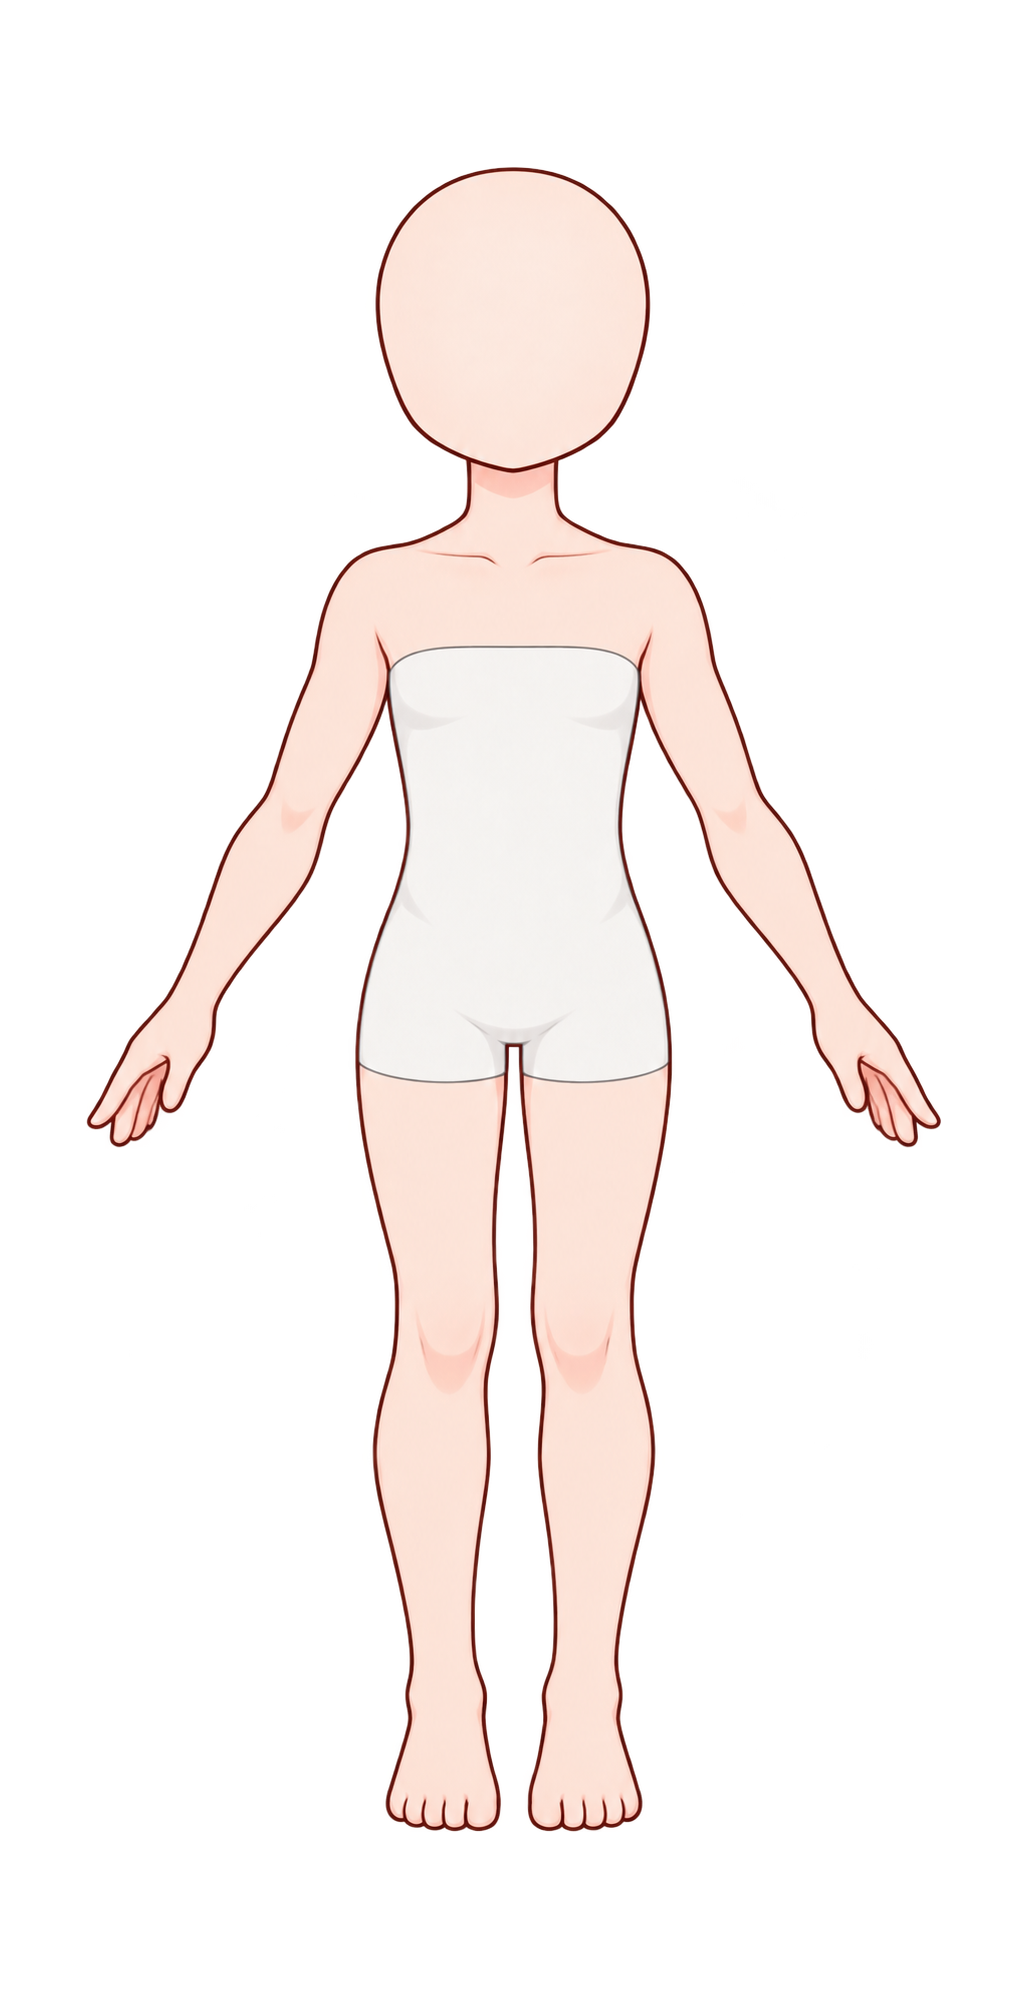
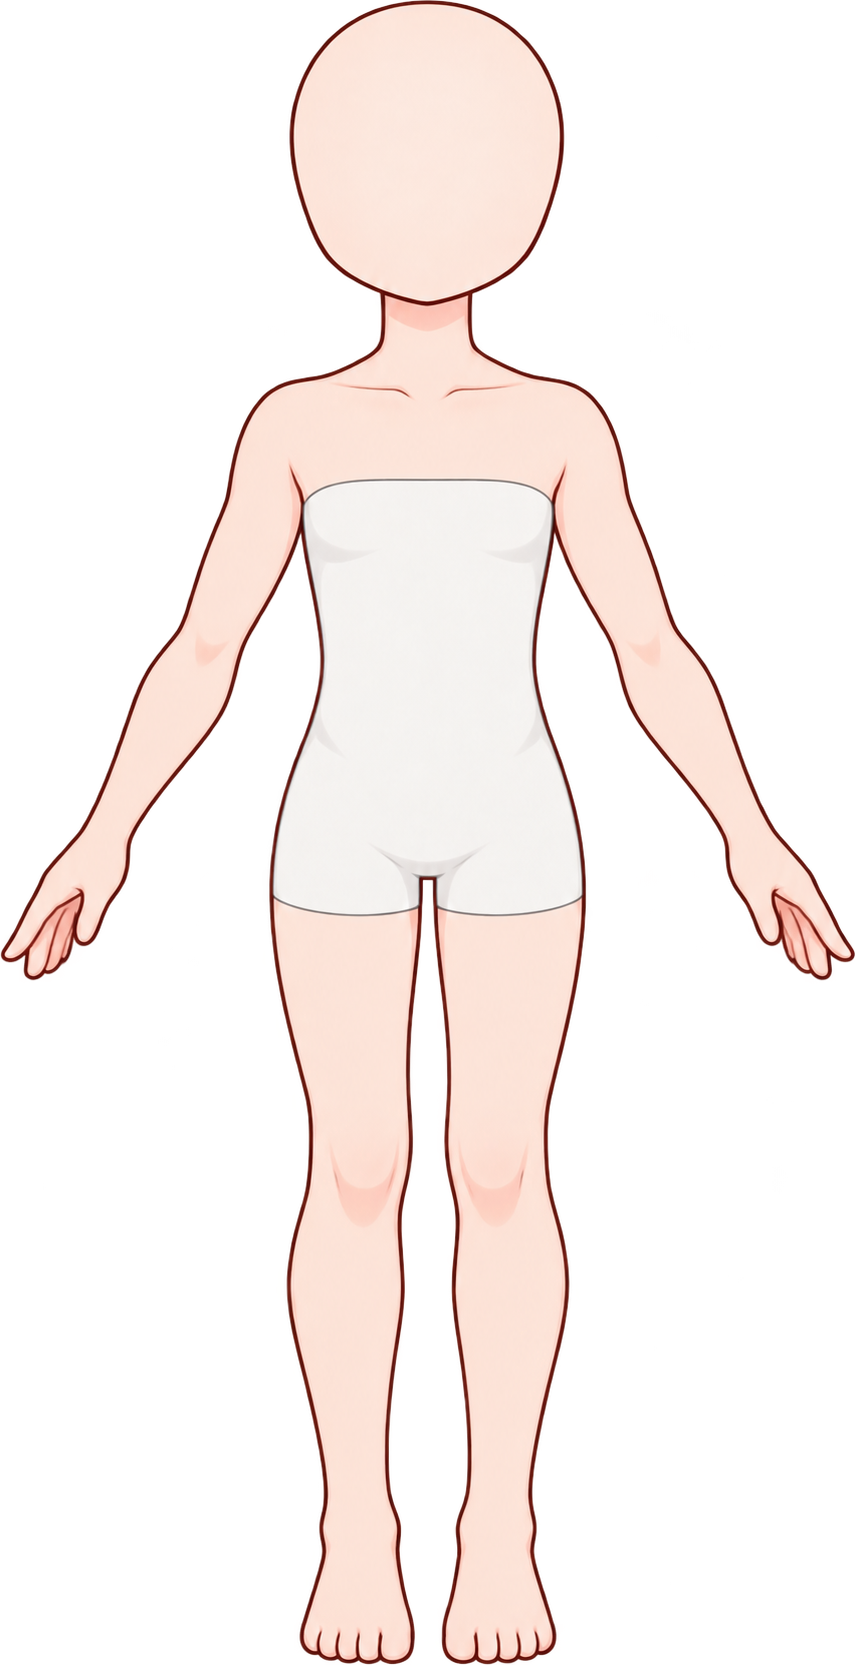
Tweaks on girl template

Changed region(s): [[0.0, 0.0, 1.0, 1.0]]

diff --git a/src/components/Character/Character.stories.tsx b/src/components/Character/Character.stories.tsx
@@ -206,16 +206,16 @@ export const Default: Story = {};
 
 export const Boy: Story = {
   args: {
-    size: 100,
-    top: 100,
+    size: 83.5,
+    top: 91.6458229115,
     left: 50,
     characterChoice: {
       sex: "M",
       layers: [
-        { file: "boy-costume-1.png", x: 50, y: 52, size: 53, zIndex: 2 },
-        { file: "boy-face-1.png", x: 50, y: 18, size: 7, zIndex: 1 },
-        { file: "boy-feet-1.png", x: 50, y: 82, size: 24, zIndex: 1 },
-        { file: "boy-hair-1.png", x: 50, y: 12, size: 19, zIndex: 1 },
+        { file: "boy-costume-1.png", x: 50, y: 52.5, size: 63.75, zIndex: 2 },
+        { file: "boy-face-1.png", x: 50, y: 11.75, size: 8.5, zIndex: 1 },
+        { file: "boy-feet-1.png", x: 50, y: 88.5, size: 29, zIndex: 1 },
+        { file: "boy-hair-1.png", x: 50, y: 4.5, size: 22, zIndex: 1 },
       ],
     },
   },
@@ -223,16 +223,16 @@ export const Boy: Story = {
 
 export const Girl: Story = {
   args: {
-    size: 100,
-    top: 100,
+    size: 83.5,
+    top: 91.6452442159,
     left: 50,
     characterChoice: {
       sex: "F",
       layers: [
-        { file: "girl-dress-1.png", x: 50, y: 52, size: 49, zIndex: 0 },
-        { file: "girl-face-1.png", x: 50, y: 18, size: 7, zIndex: 1 },
-        { file: "girl-hair-1.png", x: 50, y: 15, size: 19, zIndex: 1 },
-        { file: "girl-shoes-1.png", x: 50, y: 89, size: 9, zIndex: 1 },
+        { file: "girl-dress-1.png", x: 50, y: 52.5, size: 59, zIndex: 0 },
+        { file: "girl-face-1.png", x: 50, y: 11.75, size: 8.5, zIndex: 1 },
+        { file: "girl-hair-1.png", x: 50, y: 8, size: 23, zIndex: 1 },
+        { file: "girl-shoes-1.png", x: 50, y: 97, size: 12.5, zIndex: 1 },
       ],
     },
   },

diff --git a/AGENTS.md b/AGENTS.md
@@ -109,9 +109,8 @@ context and decisions, not temporary progress notes.
 - Prevent every rendered image from being dragged or selected.
 - Crop PNGs in `assets/character-parts/` to artwork bounds, ignoring pixels
   with opacity at or below 5% when measuring bounds. Preserve pixels inside
-  the crop. For `template-boy.png` and `template-girl.png`, add transparent
-  padding on each side equal to 10% of the cropped width or height, rounded
-  to the nearest whole pixel.
+  the crop. Templates are also tightly cropped, with no added padding:
+  `template-boy.png` is 855x1665 and `template-girl.png` is 887x1740.
 - Keep `npm run lint` and `npm run build` passing.
 
 ## Architecture decisions
@@ -174,14 +173,13 @@ context and decisions, not temporary progress notes.
   `zIndex`. Editor changes update Storybook args.
   Character stories place the 16:9 preview on the left and an independently
   scrollable editor on the right, keeping the preview visible while editing.
-  The `Girl` story starts with sex `F`, size/top `100`, left `50`, and the
-  configured girl dress, face, hair, and shoes layers, using the same live editor.
-  Its layer `(x, y, size)` values are dress `(50, 52, 49)`, face `(50, 18, 7)`,
-  hair `(50, 15, 19)`, and shoes `(50, 89, 9)`.
-  The `Boy` story uses the same editor with sex `M`, size/top `100`, left `50`.
-  Its layer `(x, y, size, zIndex)` values are `boy-costume-1.png`
-  `(50, 52, 53, 2)`, `boy-face-1.png` `(50, 18, 7, 1)`, `boy-feet-1.png`
-  `(50, 82, 24, 1)`, and `boy-hair-1.png` `(50, 12, 19, 1)`.
+  The `Girl` and `Boy` stories use the same editor with their respective sex
+  and configured clothing, face, hair, and footwear layers. Their layer
+  coordinates are relative to the tightly cropped templates. Story size is
+  `83.5`, top is approximately `91.65`, and left is `50`. Story `x`, `y`, and
+  `size` values are rounded upward to multiples of `0.25` after compensating
+  for removed template padding. Exact values live in `Character.stories.tsx`;
+  z-index values remain unchanged.
 - `src/components/Timer/`: reusable timer artwork with a percentage-positioned
   countdown display that starts at 100 and stops at zero.
 - `src/components/Dialog/`: reusable dialog-frame artwork with a centered,
